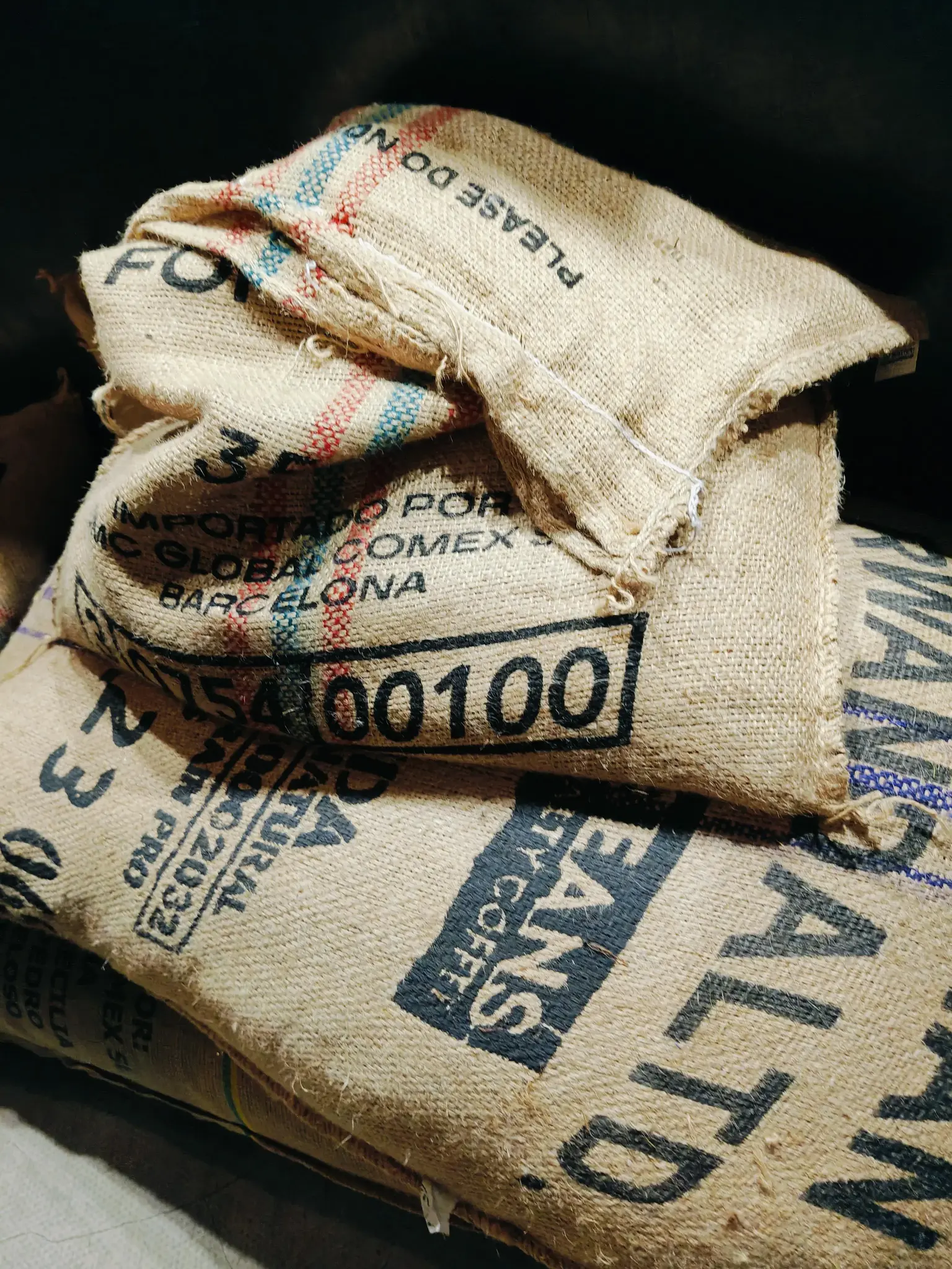
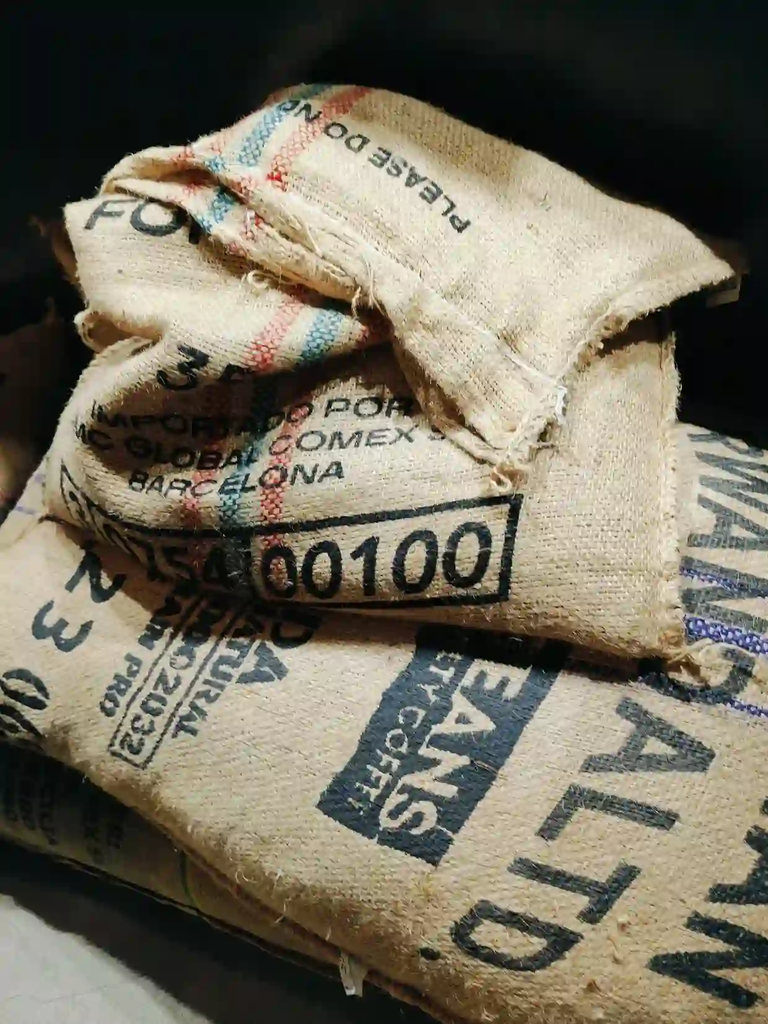
Apartment

diff --git a/content/cafes/apartment-coffee-singapore.md b/content/cafes/apartment-coffee-singapore.md
@@ -1,0 +1,80 @@
+---
+date: '2026-11-02'
+title: 'Apartment Coffee - Singapore'
+cover:
+    image: /mini/cafes/apartment-coffee.webp
+---
+
+In the specialty coffee underworld, Apartment has earned quite a reputation.
+It's one of the few cafes I'd heard about long before visiting.
+So I was surprised to see an inconspicuous entrance off the beaten track in Singapore.
+No name anywhere, just an all-glass front, albeit with people queuing to get a seat.
+
+Once inside, you're struck by the impression of how much thought and care went into the overall design of this place.
+
+|![Apartment Coffee](/cafes/apartment-coffee-3.webp)|
+|:---:|
+|The immaculate order of the baristas' workspace leaves no room for error.|
+
+You can immediately notice the shift is staffed by three people with a clear separation of responsibilities:
+
+ - One person greets and seats guests, and offers them water (or a refill).
+ - One person responsible for espresso-based drinks.
+ - One person responsible for pour-overs.
+
+The menu is very short and simple: 3 pour-over options, espresso, flat white, 3 teas, 2 chocolate drinks.
+Yes, you got that right.
+A specialty cafe serving _specialty_ chocolate.
+No food, not even pastries.
+Just high-quality drinks.
+
+So how do they manage this in a world where more and more cafes give up on pour-overs, claiming they're not viable?
+By employing highly skilled baristas capable of brewing six (!) pour-overs at a time methodically.
+Their workspace includes six of everything (glassware, cups, scales) and two kettles.
+
+|![Apartment Coffee](/cafes/apartment-coffee-12.webp)|
+|:---:|
+|Notice the blue [refractometer](https://en.wikipedia.org/wiki/Refractometer) on the left. A real testament to their craft.|
+
+We couldn't help but order a little bit of everything: coffee, tea, and chocolate.
+Everything of top-notch quality.
+The Kenyan coffee was fruity and refreshing, perfect for equatorial weather.
+The oolong tea brought back memories of I first tried one.
+The chocolate was surprisingly sweet.
+
+|![Apartment Coffee](/cafes/apartment-coffee-5.webp)|
+|:---:|
+|The drink I received first. It screams: "This is going to be good!"|
+
+|![Apartment Coffee](/cafes/apartment-coffee-7.webp)|
+|:---:|
+|Uncompromising quality even in tableware. Notice how every drink includes a small card with all the relevant info: region, varietal, harvest year.|
+
+What sets them apart from other specialty places?
+After all, there are plenty of cafes serving you delicious drinks in a stylish interior.
+Apart from the highly efficient approach I described above, the attentiveness of the staff is remarkable.
+Sadly, in many places how baristas treat their customers is merely an afterthought.
+For Apartment, it's a skill just as important as brewing itself.
+There's a fine line between being polite and friendly, and fake smiling to a level where a customer thinks: "That's enough, just let me be".
+Here, every member of the staff knows how to make you feel welcome without overdoing it.
+
+|![Apartment Coffee](/cafes/apartment-coffee-8.webp)|
+|:---:|
+|Thanks to the downpour outside, I could take some pictures with no intruders.|
+
+And not every cafe puts actual art on the walls.
+So when you combine highly skilled baristas, methodical brewing techniques, a stylish and clean interior, attentive staff without overdoing it, art and thoughtful design, you get Apartment.
+
+|![Apartment Coffee](/cafes/apartment-coffee-4.webp)|
+|:---:|
+|Six pour-overs? No problem.|
+
+|![Apartment Coffee](/cafes/apartment-coffee-10.webp)|
+|:---:|
+|Not a big space, yet it feels spacious. It can seat quite a number of customers.|
+
+We gave our compliments to the staff as we took our leave.
+Assuming we might come again, they told us that the place is closed on Wednesdays and Thursdays, which is rather unconventional.
+But it's good that such highly skilled professionals are rewarded with as many days off as most people in other jobs.
+
+This raises the question: do you need to travel to one of the richest countries in the world for a coffee experience like this?

diff --git a/content/cafes/riso-tromso-norway.md b/content/cafes/riso-tromso-norway.md
@@ -3,7 +3,7 @@ date: '2021-12-29'
 draft: false
 title: 'Risø - Tromsø, Norway'
 cover:
-    image: /mini/cafes/riso.jpg
+    image: /mini/cafes/riso.webp
 ---
 
 Beyond the Arctic Circle in winter twilight, especially in a small town like Tromsø, you'd expect to be far from specialty coffee culture.

diff --git a/content/cafes/marshall-hamburg-germany.md b/content/cafes/marshall-hamburg-germany.md
@@ -3,7 +3,7 @@ date: '2023-10-13'
 draft: false
 title: 'Marshall Street Coffee - Hamburg, Germany'
 cover:
-    image: /mini/cafes/marshall-1.jpg
+    image: /mini/cafes/marshall-1.webp
 ---
 
 This is the first coffee shop I've encountered that operates strictly by reservation only.

diff --git a/content/cafes/monk-rhodes-greece.md b/content/cafes/monk-rhodes-greece.md
@@ -3,7 +3,7 @@ date: '2023-10-03'
 draft: false
 title: 'Monk - Rhodes, Greece'
 cover:
-    image: /mini/cafes/monk-1.jpg
+    image: /mini/cafes/monk-1.webp
 ---
 
 You might expect that visiting a tourist destination like Rhodes would mean compromising on specialty coffee.

diff --git a/content/cafes/why-knot-minsk-belarus.md b/content/cafes/why-knot-minsk-belarus.md
@@ -3,7 +3,7 @@ date: '2020-09-05'
 draft: false
 title: 'Why Knot - Minsk, Belarus'
 cover:
-    image: /mini/cafes/why-knot.jpg
+    image: /mini/cafes/why-knot.webp
 ---
 
 I was promised to be led to the best coffee spot in the city, so my expectations were high.
